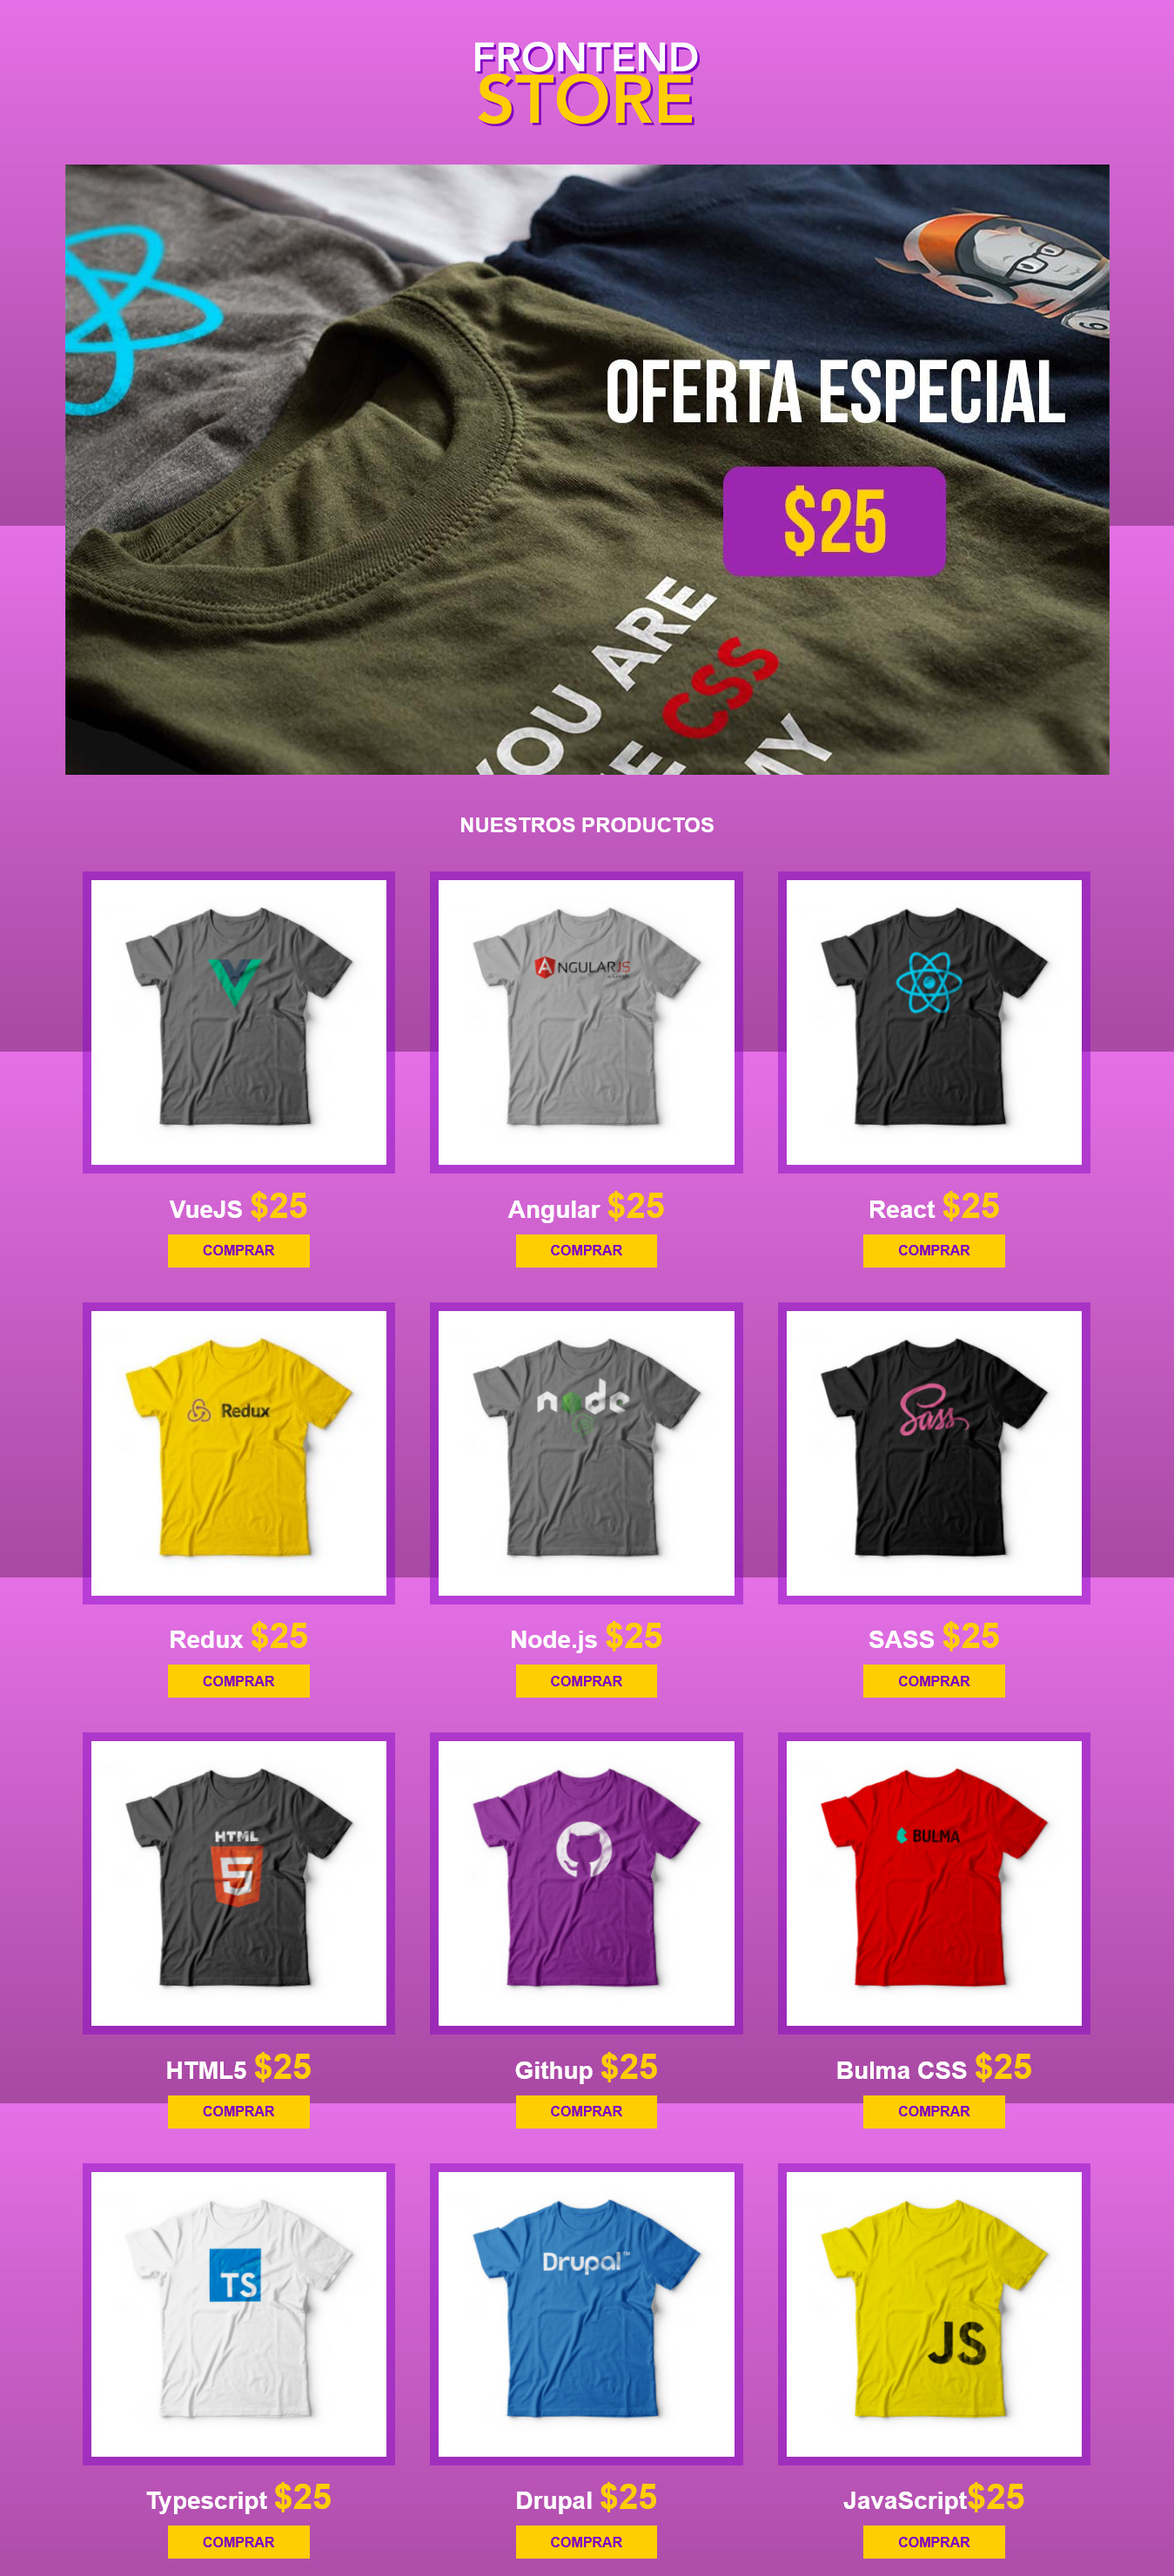
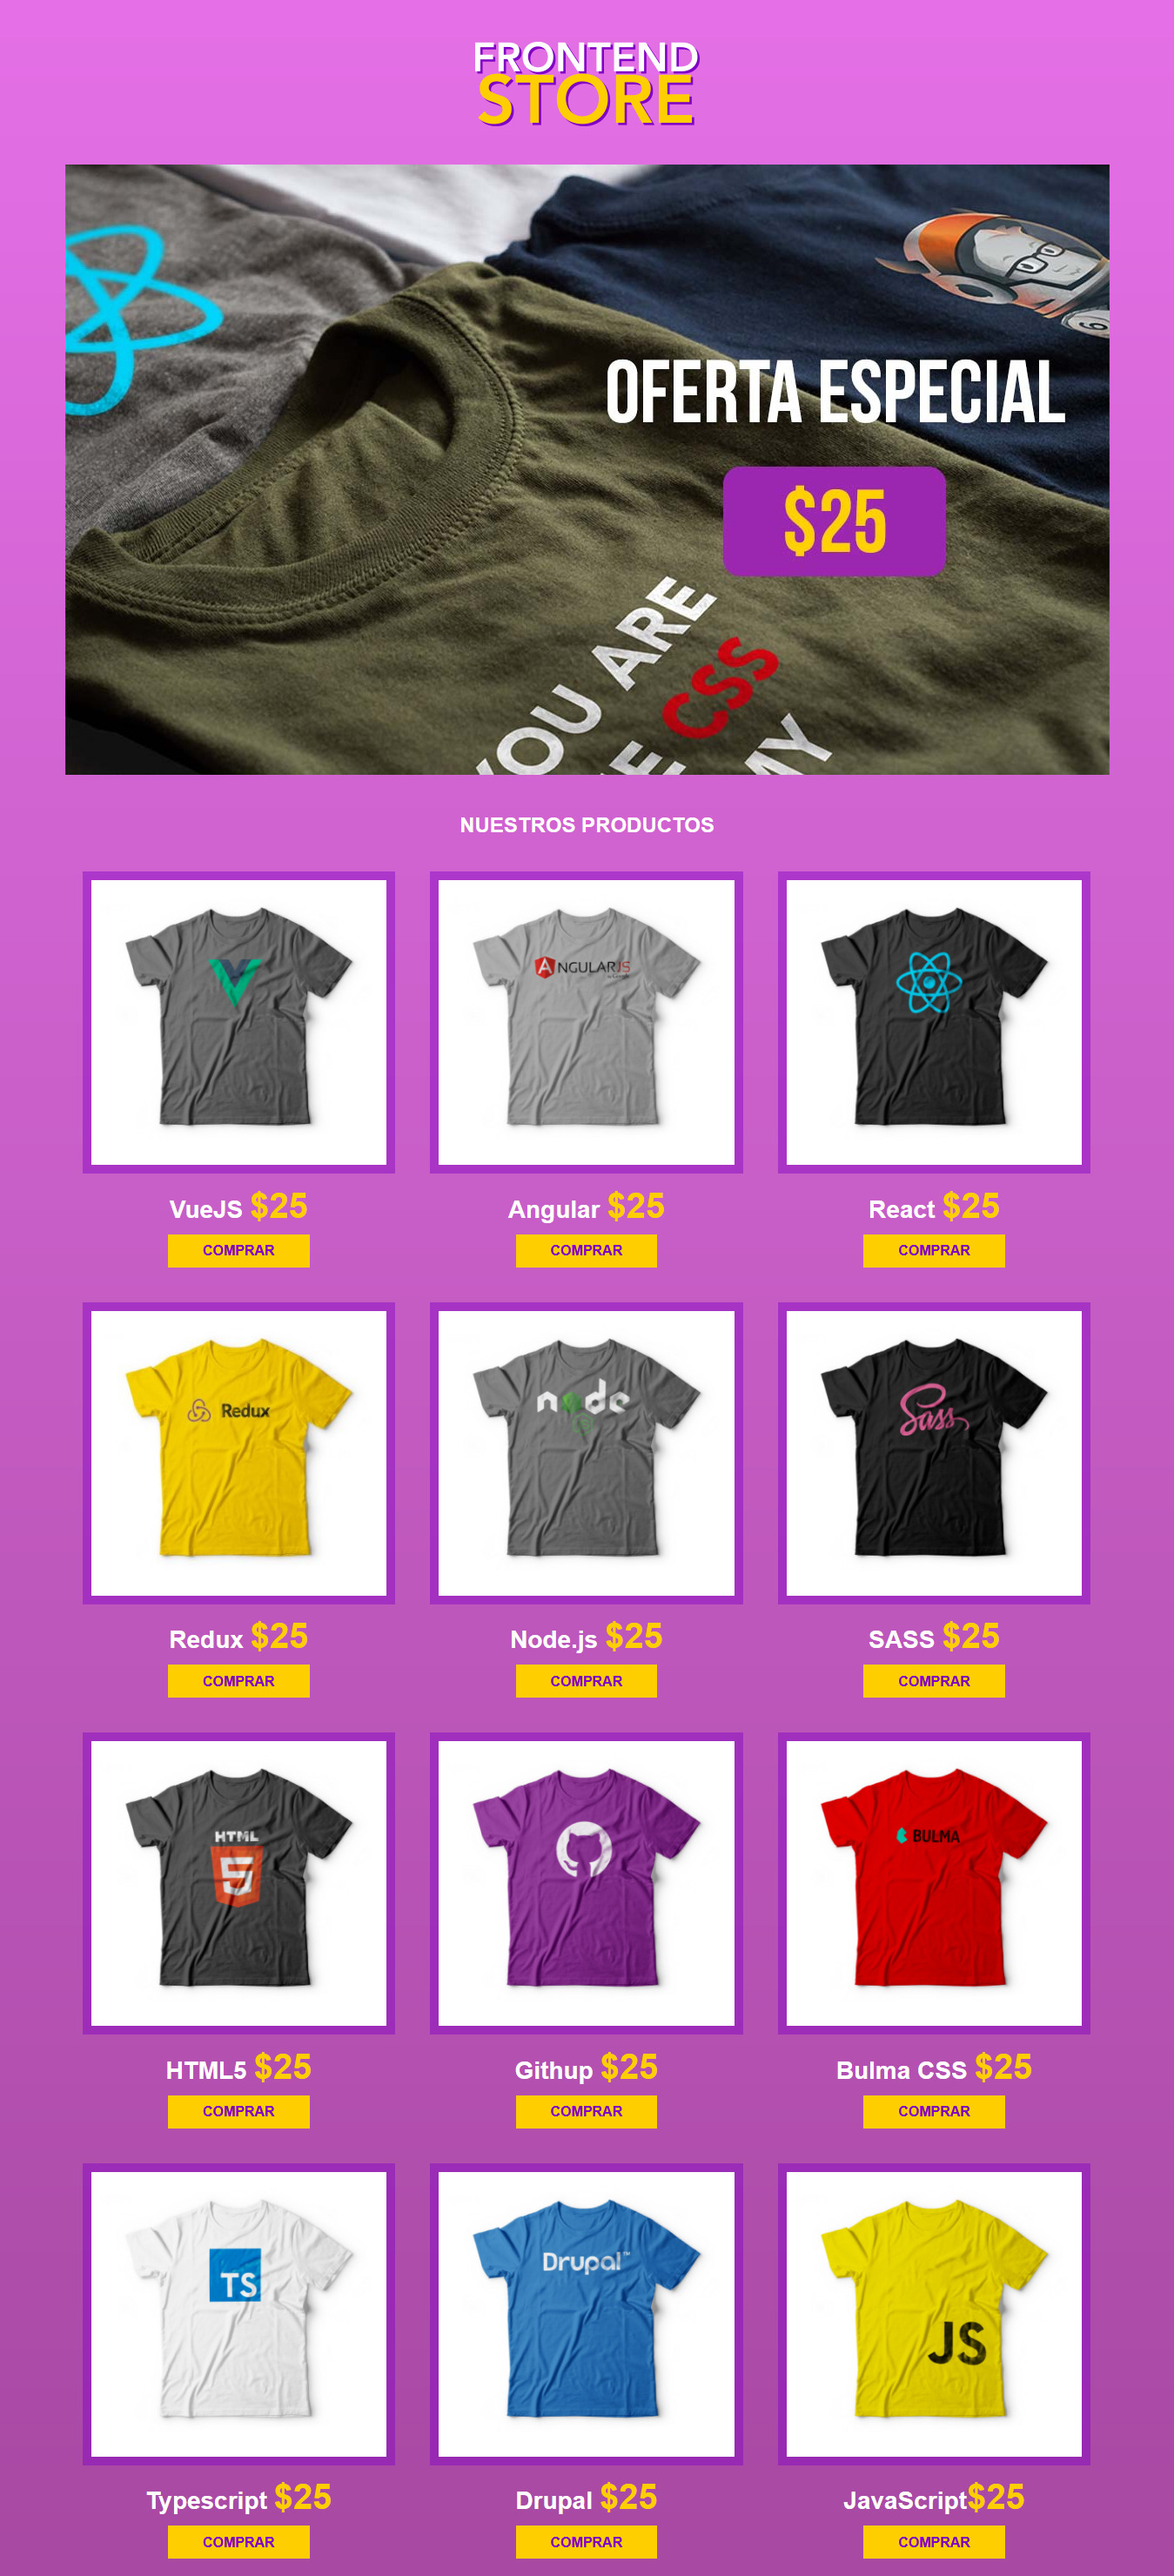
imagen del diseño

diff --git a/frontendstore/css/estilos.css b/frontendstore/css/estilos.css
@@ -1,6 +1,5 @@
 html {
     box-sizing: border-box;
-    height: 100%;
 }
 
 *,
@@ -12,7 +11,6 @@ html {
 body {
     font-family: Arial, Helvetica, sans-serif;
     color: #ffffff;
-    height: 100%;
     /* Permalink - use to edit and share this gradient: https://colorzilla.com/gradient-editor/#e570e7+0,c85ec7+47,a849a3+100 */
     background: rgb(229, 112, 231);
     /* Old browsers */
@@ -24,7 +22,6 @@ body {
     /* W3C, IE10+, FF16+, Chrome26+, Opera12+, Safari7+ */
     filter: progid: DXImageTransform.Microsoft.gradient( startColorstr='#e570e7', endColorstr='#a849a3', GradientType=0);
     /* IE6-9 */
-    background-attachment: fixed;
 }
 
 header {
